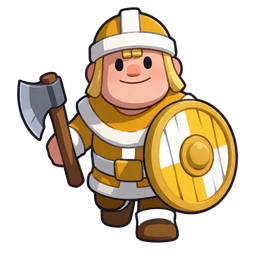
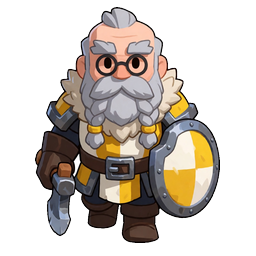
beta v39.19: Approved sprites: Drevlar no amulet, Doom bird crown, older Glade

diff --git a/beta/index.html b/beta/index.html
@@ -18,7 +18,7 @@
     document.addEventListener('DOMContentLoaded', () => { document.title = document.title.replace('Royal Blight', window.RB_TITLE); const h = document.getElementById('menu-title'); if (h) h.textContent = window.RB_TITLE; });
   </script>
   <script>if (window.Capacitor) document.write('<script src="capacitor-shim.js"><\/script>');</script><!-- Android app only; no-op on web -->
-  <title>Evermarch BETA v39.18</title>
+  <title>Evermarch BETA v39.19</title>
   <!-- Tailwind CSS CDN -->
   <script src="assets/tailwind.js"></script>
   <!-- Google Fonts: Fredoka for chunky mobile strategy UI, Inter for crisp stats -->
@@ -323,7 +323,7 @@
       <img id="menu-logo" src="assets/logo_crest.webp" alt="" class="w-24 h-24 mb-1 drop-shadow-[0_6px_14px_rgba(0,0,0,0.7)]" style="animation:rblogo 3s ease-in-out infinite">
       <h1 id="menu-title" class="text-4xl font-black uppercase tracking-wider leading-none" style="color:#fbbf24;-webkit-text-stroke:1.5px #451a03;text-shadow:0 3px 0 #92400e,0 6px 12px #000c;font-family:inherit">Evermarch</h1>
       <style>@keyframes rblogo{0%,100%{transform:translateY(0) rotate(-2deg)}50%{transform:translateY(-4px) rotate(2deg)}}</style>
-      <p class="text-slate-300 text-xs mb-6">King vs Necromancer &middot; Tug of War &middot; <span class="text-amber-300 font-black">BETA v39.18</span></p>
+      <p class="text-slate-300 text-xs mb-6">King vs Necromancer &middot; Tug of War &middot; <span class="text-amber-300 font-black">BETA v39.19</span></p>
       <div class="w-full max-w-xs bg-slate-800/90 rounded-xl p-4 border border-slate-700 mb-4">
         <div class="text-xs font-black text-slate-200 uppercase tracking-wider mb-2">Play vs Computer</div>
         <div class="grid grid-cols-3 gap-2">
@@ -938,7 +938,7 @@
         return loadSprite(away ? bk + '_back' : bk) || loadSprite(bk) || SPRITE_PENDING; }   // v26 dedicated boss art
       let chain = (away ? [k + '_' + at + '_back', k + '_' + at, base + '_' + at + '_back', base + '_' + at] : [k + '_' + at, base + '_' + at]);
       if (gm) {   // v39.4 Cut's <unit>_yellow art (plain men); Kingdom art + Glade tint only where yellow art is missing
-        const y = chain.map(n => n.replace('_red', '_yellow')); chain = y.concat(chain.map(n => n.replace('_red', '_blue'))); }
+        const y = chain.map(n => n.replace(new RegExp('_' + at + '(?=_back$|$)'), '_yellow')); chain = y.concat(chain.map(n => n.replace('_red', '_blue'))); }   // v39.19: artTeam is 'blue' for Glade's men, so swap whatever team suffix -> _yellow (knight_yellow was never reached)
       if (at === 'green') chain = chain.concat(chain.map(n => n.replace('_green', '_red')));   // red-only heroes (acolyte) keep their art
       chain = chain.concat([base]);
       let pending = false;
@@ -957,7 +957,7 @@
       Object.values(MAPS).forEach(m => loadSprite(m.bg));
       VARIANT_ART.forEach(n => { loadSprite(n); loadSprite(n + '_back'); });
       ['knight','archer','wizard','brute','worker','cavalier'].forEach(k => { loadSprite(k + '_green'); loadSprite(k + '_green_back'); });   // v26 Green Army
-      loadSprite('felix_boss'); loadSprite('felix_boss_back'); loadSprite('barn'); loadSprite('barn_burnt');
+      loadSprite('felix_boss'); loadSprite('felix_boss_back'); ['drevlar_boss', 'drevlar_boss_back', 'doom_boss', 'doom_boss_back', 'knight_yellow', 'knight_yellow_back'].forEach(loadSprite);   // v39.19 approved sprites loadSprite('barn'); loadSprite('barn_burnt');
     }, 300));
     loadSprite('cavalier_blue'); loadSprite('cavalier_blue_back'); loadSprite('acolyte_red'); loadSprite('acolyte_red_back');
     window.addEventListener('load', () => Object.entries(HERO_TYPES).forEach(([t, m]) => Object.values(m).forEach(k => { if (HEROX[k]) { loadSprite(k + '_' + t); loadSprite(k + '_' + t + '_back'); } })));   // v31
@@ -4536,7 +4536,7 @@
   <script src="cloud.js"></script>
   <script>
     // v24.1 update flow: network-first SW, update checks on load/focus, version.json poll, one guarded reload.
-    window.APP_VERSION = 'v39.18';
+    window.APP_VERSION = 'v39.19';
     (function () {
       const busy = () => { try { return !!(state.started && !state.gameOver); } catch (e) { return false; } };
       let shown = false;

diff --git a/beta/story.js b/beta/story.js
@@ -1634,7 +1634,7 @@
     for (const [k, o] of Object.entries(defs)) { o.id = k; M[k] = o; }
     REGIONS.southmire.missions = ['M22', 'M23', 'M24']; REGIONS.southmire.soon = false; REGIONS.southmire.count = 3;
     REGIONS.southmire.cards = [['map:swamp', '\u{1F480}', 'Southmire swamp']];
-    BOSSES.M24 = { name: 'Drevlar', short: 'DREVLAR', art: 'nexus_drevlar', portrait: 'mystery', fort: 'the swamp heart' };   // PLACEHOLDER: Drevlar boss art (no amulet) — reuse nexus_drevlar until Cut delivers
+    BOSSES.M24 = { name: 'Drevlar', short: 'DREVLAR', art: 'drevlar_boss', portrait: 'mystery', fort: 'the swamp heart' };   // PLACEHOLDER: Drevlar boss art (no amulet) — reuse nexus_drevlar until Cut delivers
     Object.assign(PORTRAIT, { Drevlar: 'mystery', Pirate: 'mystery', Outlaw: 'mystery', Brannock: 'cline', Narrator: 'storyteller', Messenger: 'mystery', 'Silver Knight': 'mystery' });
     // Roster briefings (text-only) for Act 4
     for (const k of ['M22', 'M23', 'M24']) {
@@ -1685,10 +1685,9 @@
       ],
       lose: [L('Rufus', 'Hold the line! We go again!')],
       stage: { bg: null, lane: null, overlay: 'fx_ash', tint: { color: '#14532d', alpha: 0.28, blend: 'multiply' }, events: [
-        bark('t>=2', 'Felix', 'Those are my farmers. Their eyes… Don\'t kill them, break the totem!')
       ] } };
     M.M25.events = null;
-    BOSSES.M25 = { name: 'Doom', short: 'DOOM', art: 'nexus_doom', portrait: 'mystery', fort: 'the fallen festival' };   // PLACEHOLDER: Doom sprite with ruby crystal bird crown (Cut)
+    BOSSES.M25 = { name: 'Doom', short: 'DOOM', art: 'doom_boss', portrait: 'mystery', fort: 'the fallen festival' };   // PLACEHOLDER: Doom sprite with ruby crystal bird crown (Cut)
     REGIONS.southmire.missions = ['M22', 'M23', 'M24', 'M25']; REGIONS.southmire.count = 4;
     const FB = { A: { bg: 'bg_m04_farmland_ashmorning', tint: { color: '#14532d', alpha: 0.22, blend: 'multiply' }, name: 'EASTMARCH' }, B: { bg: 'bg_m14_canals', tint: { color: '#713f12', alpha: 0.22, blend: 'multiply' }, name: 'WESTREACH' }, C: { bg: 'bg_p0_festival', tint: { color: '#1e1b4b', alpha: 0.32, blend: 'multiply' }, name: 'PARADALE' } };
     M.M25.stage.bg = FB.A.bg;
@@ -1706,6 +1705,7 @@
       toast((resumed ? 'CHECKPOINT · ' : '') + 'STAGE ' + stg + ': ' + FB[stg].name, '#fde68a');
       if (stg !== 'A' && !(R.kings || {}).glade) ally('glade', 'GLADE', -40);
       if (resumed && !(R.kings || {}).felix) ally('felix', 'FELIX', 30);
+      if (resumed && stg === 'C' && !(R.kings || {}).cline) { ally('cline', 'CLINE', 60); ['pawn', 'pawn', 'brute', 'archer'].forEach(t => state.spawnQ.blue.push(t)); }   // v39.19 Cline already cleared on a resumed C
       if (stg === 'C') spawnBoss({ hp: 1500, atk: 38, range: 170, interval: 1.1, speed: 22, y: 300, name: 'Doom' }); };
     S.finaleTick = function (dt) {
       const R = S.R, m = S.m; if (!R || !m.finale) return; const F = R.fin = R.fin || { stage: 'A', t: 0, th: [] }; F.t += dt;
@@ -1714,6 +1714,7 @@
       if (!F.tot && F.stage !== 'C') { F.tot = totems(F.stage === 'A' ? 2 : 3, F.stage === 'A' ? 450 : 520); }
       if (F.clineT && (F.clineT -= dt) <= 0) { F.clineT = 0; say('Rufus', 'Cline… I knew it.'); ally('cline', 'CLINE', 60); ['pawn', 'pawn', 'brute', 'archer'].forEach(t => state.spawnQ.blue.push(t)); setTimeout(() => say('Cline', 'Northcrag answers, Rufus! Silver Army, CHARGE!'), 3500); }
       if (F.stage === 'A' || F.stage === 'B') {
+        if (F.stage === 'A' && !F.aSaid && F.t > 2) { F.aSaid = 1; say('Felix', 'Those are my farmers. Their eyes… Don\'t kill them, break the totem!'); }   // v39.18+: stage-A only (not on a resumed checkpoint)
         if (F.stage === 'B' && !F.bSaid && F.t > 2) { F.bSaid = 1; say('Glade', 'My own lads, in yellow and white. Hold, I\'m coming for you.'); }
         const left = F.tot.filter(u => !u.dead && u.hp > 0);
         if (!F.half && left.length <= Math.floor(F.tot.length / 2)) { F.half = 1; say('Doom', F.stage === 'A' ? 'The light realm. One whisper and you turn on each other.' : 'Kings who burn their own fields and their own books. So easy.'); }

diff --git a/beta/sw.js b/beta/sw.js
@@ -1,5 +1,5 @@
 // Bump CACHE_VERSION whenever any file changes so phones pick up the update.
-const CACHE_VERSION = 'royal-blight-beta-v39.18';   // BETA build (/royal-blight/beta/): own cache namespace
+const CACHE_VERSION = 'royal-blight-beta-v39.19';   // BETA build (/royal-blight/beta/): own cache namespace
 const CORE = [
   './', './index.html', './manifest.json', './mp.js', './story.js', './reclaim.js', './cloud.js', './assets/lib/qrcode.js', './assets/lib/jsQR.js', './assets/lib/peerjs.min.js',
   './assets/tailwind.js', './assets/kingdom_map.jpg', './assets/fonts/fonts.css',
@@ -31,7 +31,7 @@ const OPTIONAL = ['arena_bg', 'nexus_king', 'nexus_king_back', 'nexus_necromance
   // v26: Green Army (story) + Felix boss + heroes
   ['knight','knight_mace','knight_hammer','knight_shield','archer','archer_long','archer_flame','archer_hunting','brute','brute_light','brute_heavy','brute_spiked',
    'wizard','wizard_priest','wizard_banner','worker','cavalier'].flatMap(k => [k + '_green', k + '_green_back'])
-    .concat(['felix_boss', 'felix_boss_back', 'barn', 'barn_burnt', 'windmill', 'windmill_burning', 'jailwagon', 'jailwagon_open', 'lantern_on', 'lantern_off', 'oilwagon', 'oilwagon_burnt', 'cavalier_blue', 'cavalier_blue_back', 'acolyte_red', 'acolyte_red_back'])
+    .concat(['felix_boss', 'felix_boss_back', 'drevlar_boss', 'drevlar_boss_back', 'doom_boss', 'doom_boss_back', 'knight_yellow', 'knight_yellow_back', 'barn', 'barn_burnt', 'windmill', 'windmill_burning', 'jailwagon', 'jailwagon_open', 'lantern_on', 'lantern_off', 'oilwagon', 'oilwagon_burnt', 'cavalier_blue', 'cavalier_blue_back', 'acolyte_red', 'acolyte_red_back'])
 ).map(n => './assets/' + n + (/^arena_/.test(n) ? '.jpg' : '.png'))
   .concat(['rufus','ruphene','vesper','garrow','felix','pip','farmer','mystery'].map(n => './assets/portraits/' + n + '.webp'), ['./assets/vo/index.json'],
     ['wren_blue','bram_blue','quill_blue','nettle_red','ossuar_red','wail_red'].flatMap(n => ['./assets/' + n + '.png', './assets/' + n + '_back.png']));   // v31 heroes   // v29 portraits (voice .ogg cached on first play)
@@ -43,12 +43,12 @@ self.addEventListener('install', e => {
   self.skipWaiting();
   e.waitUntil(caches.open(CACHE_VERSION).then(async c => {
     await c.addAll(CORE.map(u => new Request(u, { cache: 'reload' })));
-    await Promise.all(OPTIONAL.map(u => fetch(u).then(r => r.ok ? c.put(u, r) : null).catch(() => null)));
+    await Promise.all(OPTIONAL.map(u => fetch(u, { cache: 'reload' }).then(r => r.ok ? c.put(u, r) : null).catch(() => null)));
   }));
 });
 self.addEventListener('activate', e => {
   // only clean up OLD BETA caches; the live game's caches share this origin and must not be touched
-  e.waitUntil(caches.keys().then(ks => Promise.all(ks.filter(k => k.startsWith('royal-blight-beta-v39.18') && k !== CACHE_VERSION).map(k => caches.delete(k))))
+  e.waitUntil(caches.keys().then(ks => Promise.all(ks.filter(k => k.startsWith('royal-blight-beta-v39.19') && k !== CACHE_VERSION).map(k => caches.delete(k))))
     .then(() => self.clients.claim()));
 });
 self.addEventListener('fetch', e => {
